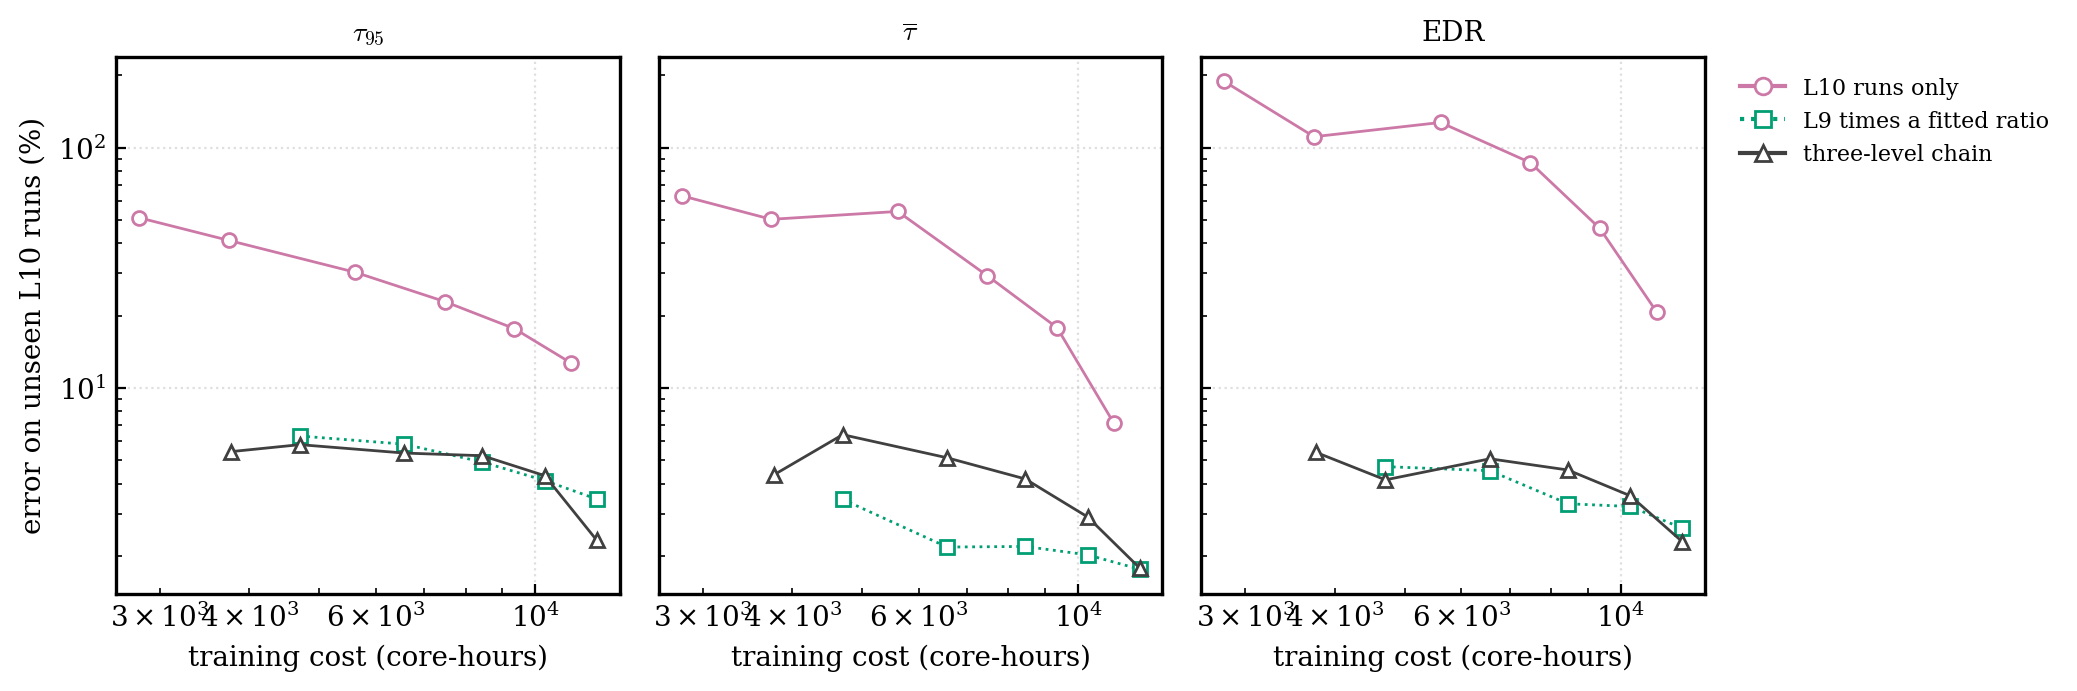
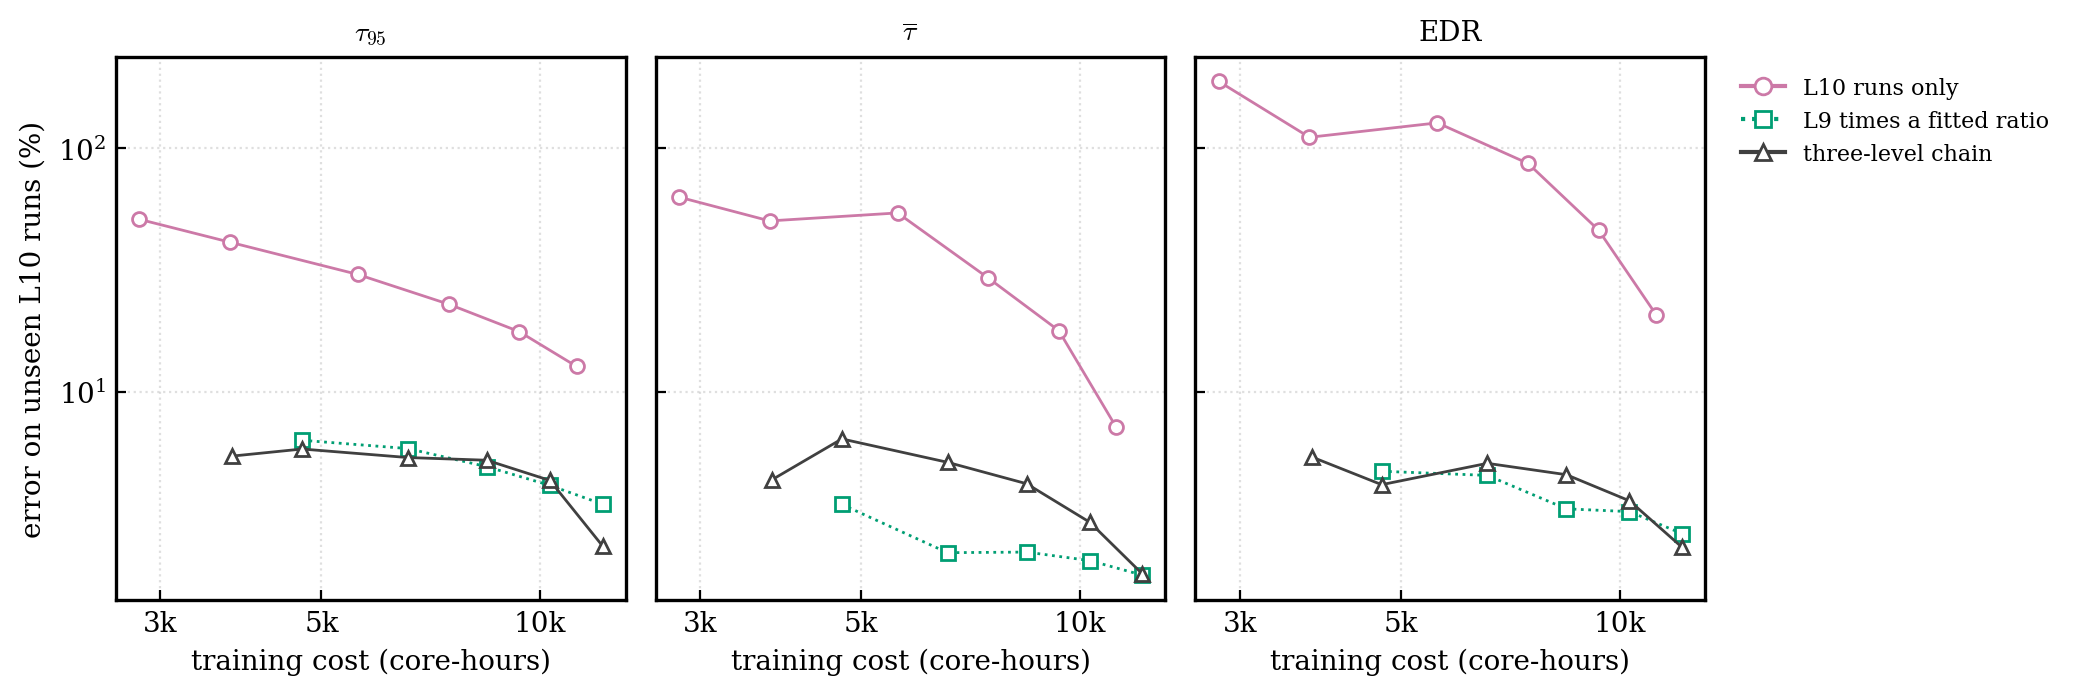
learning curve figure: tick labels

diff --git a/scripts/fig_learning_curve.py b/scripts/fig_learning_curve.py
@@ -36,6 +36,9 @@ def main():
         ax.set_xscale("log")
         ax.set_title(LAB[q], fontsize=10)
         ax.set_xlabel("training cost (core-hours)")
+        ax.set_xticks([3000, 5000, 10000])
+        ax.set_xticklabels(["3k", "5k", "10k"])
+        ax.minorticks_off()
         ax.grid(**fs.GRID_KW)
     axes[0].set_ylabel("error on unseen L10 runs (%)")
     h = [Line2D([], [], color=fs.level_colour(10), marker="o", mfc="w", label="L10 runs only"),
